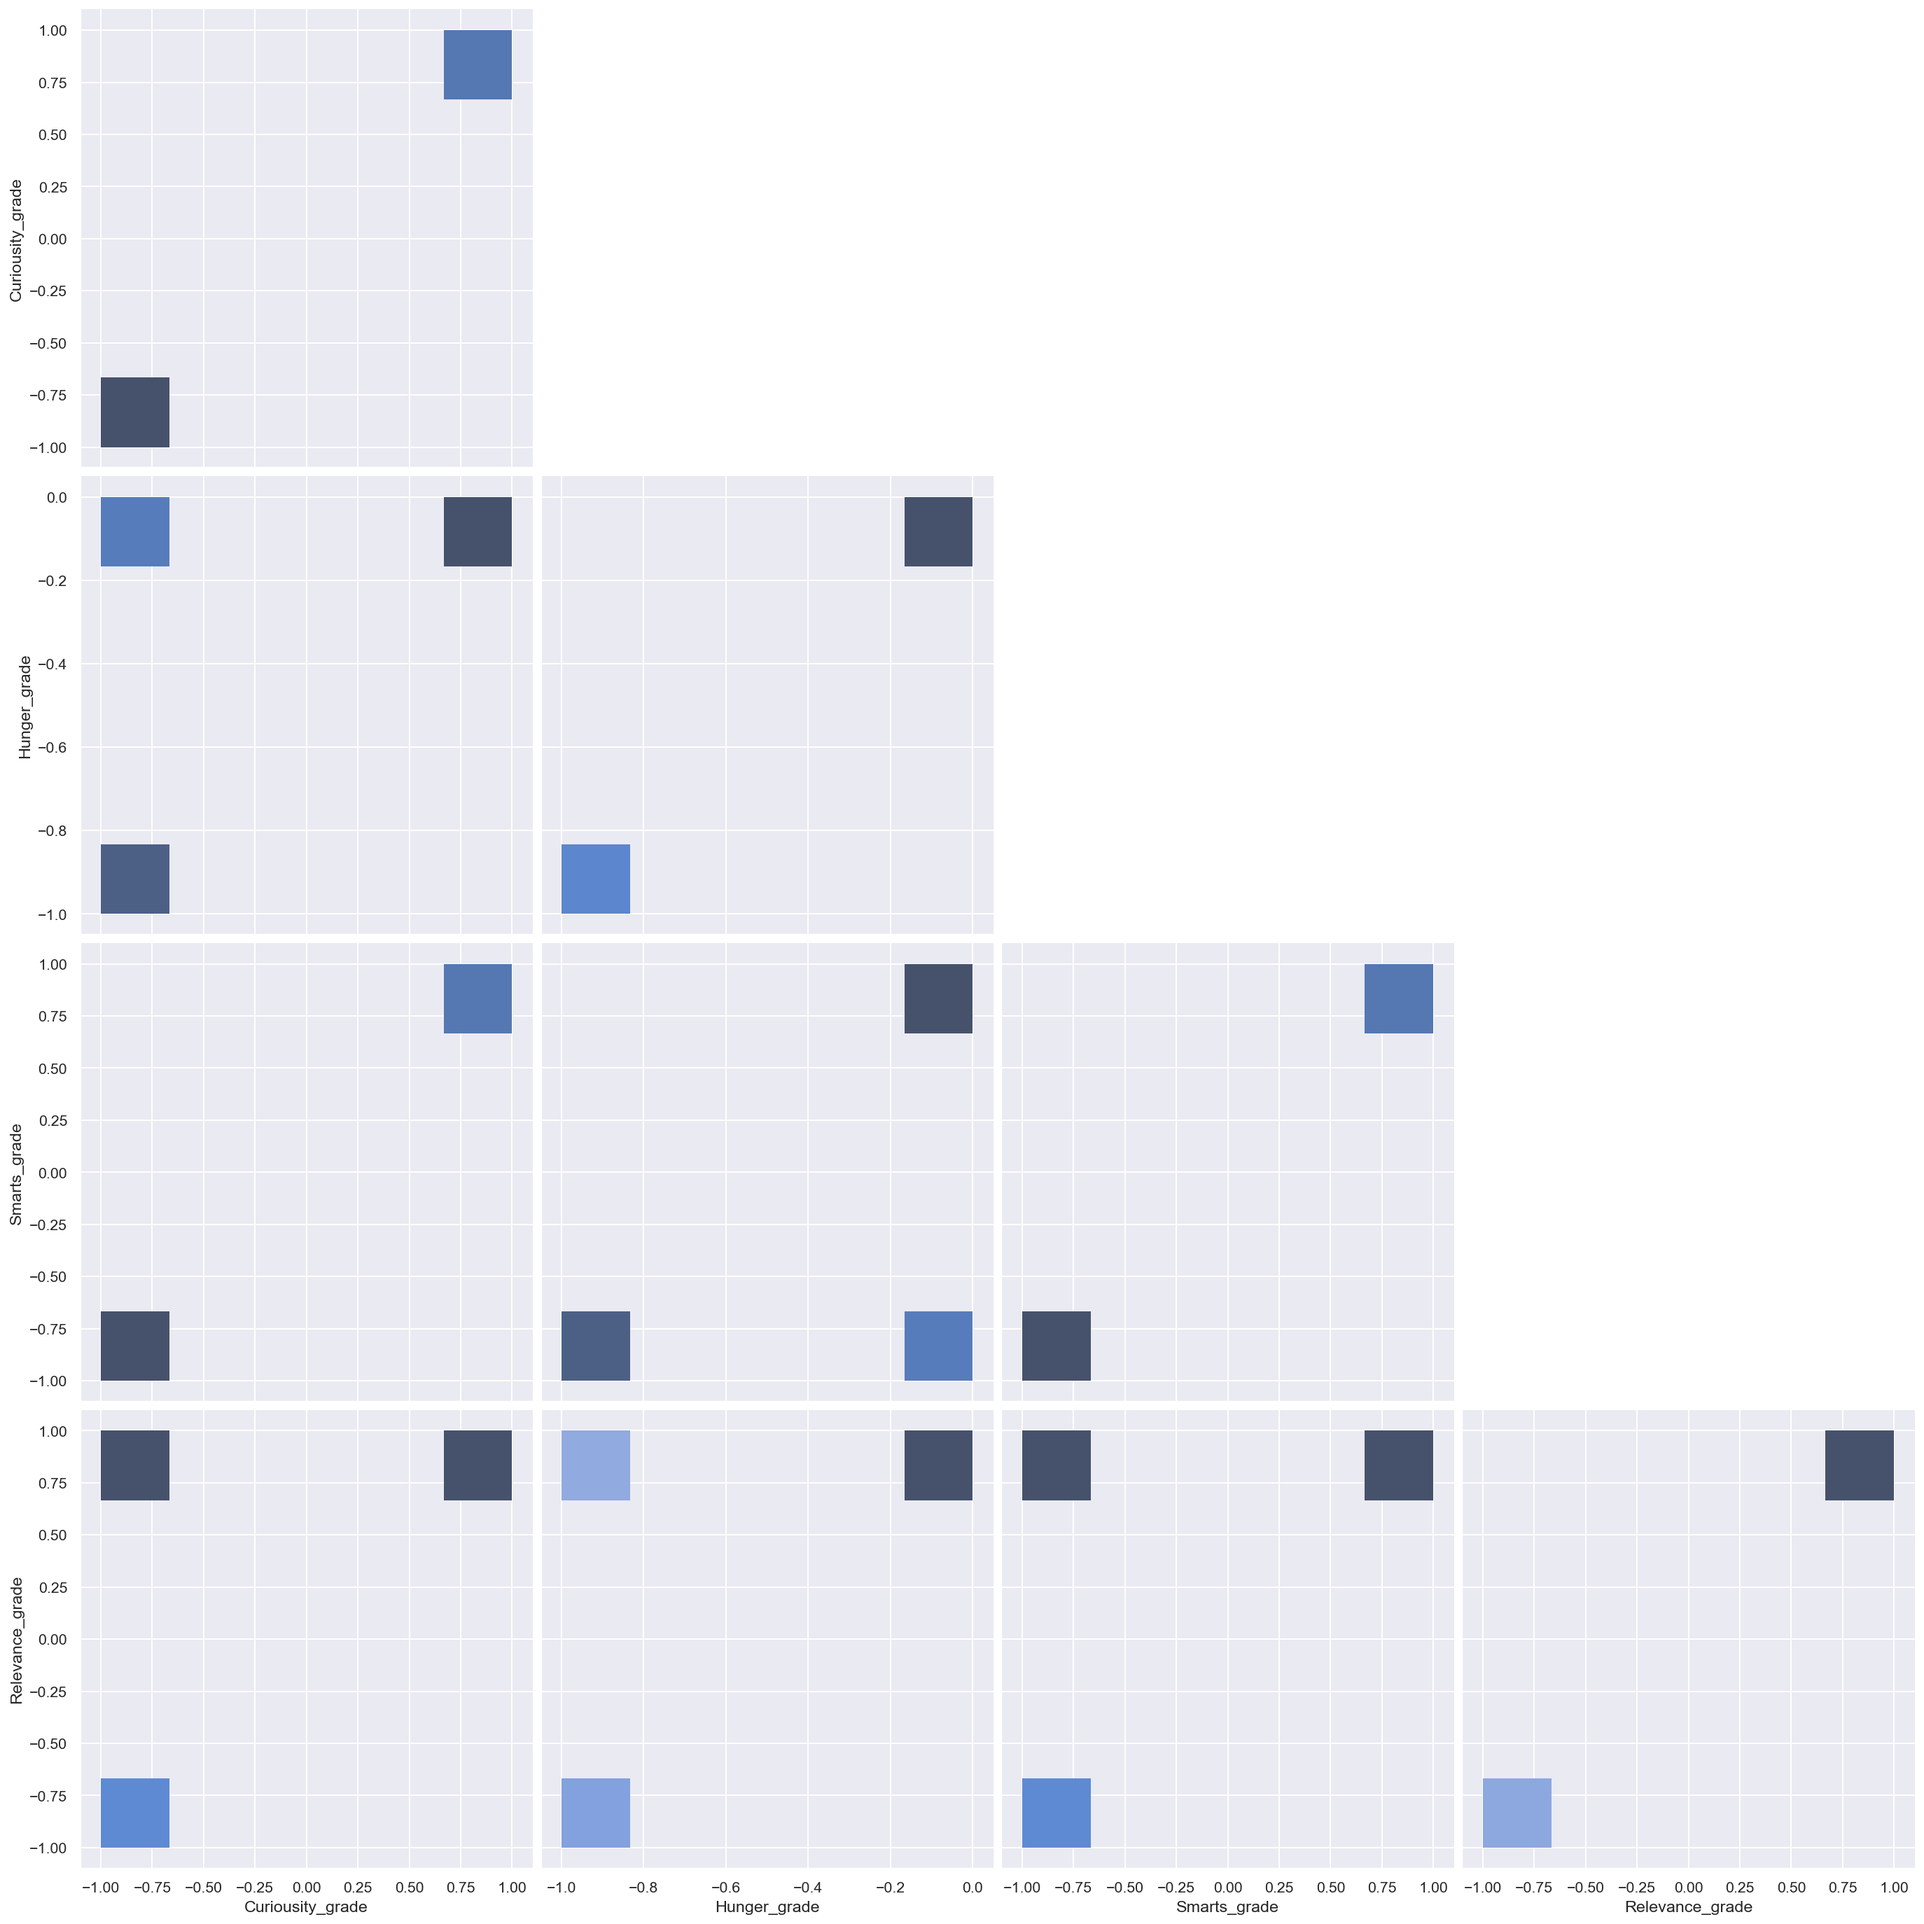
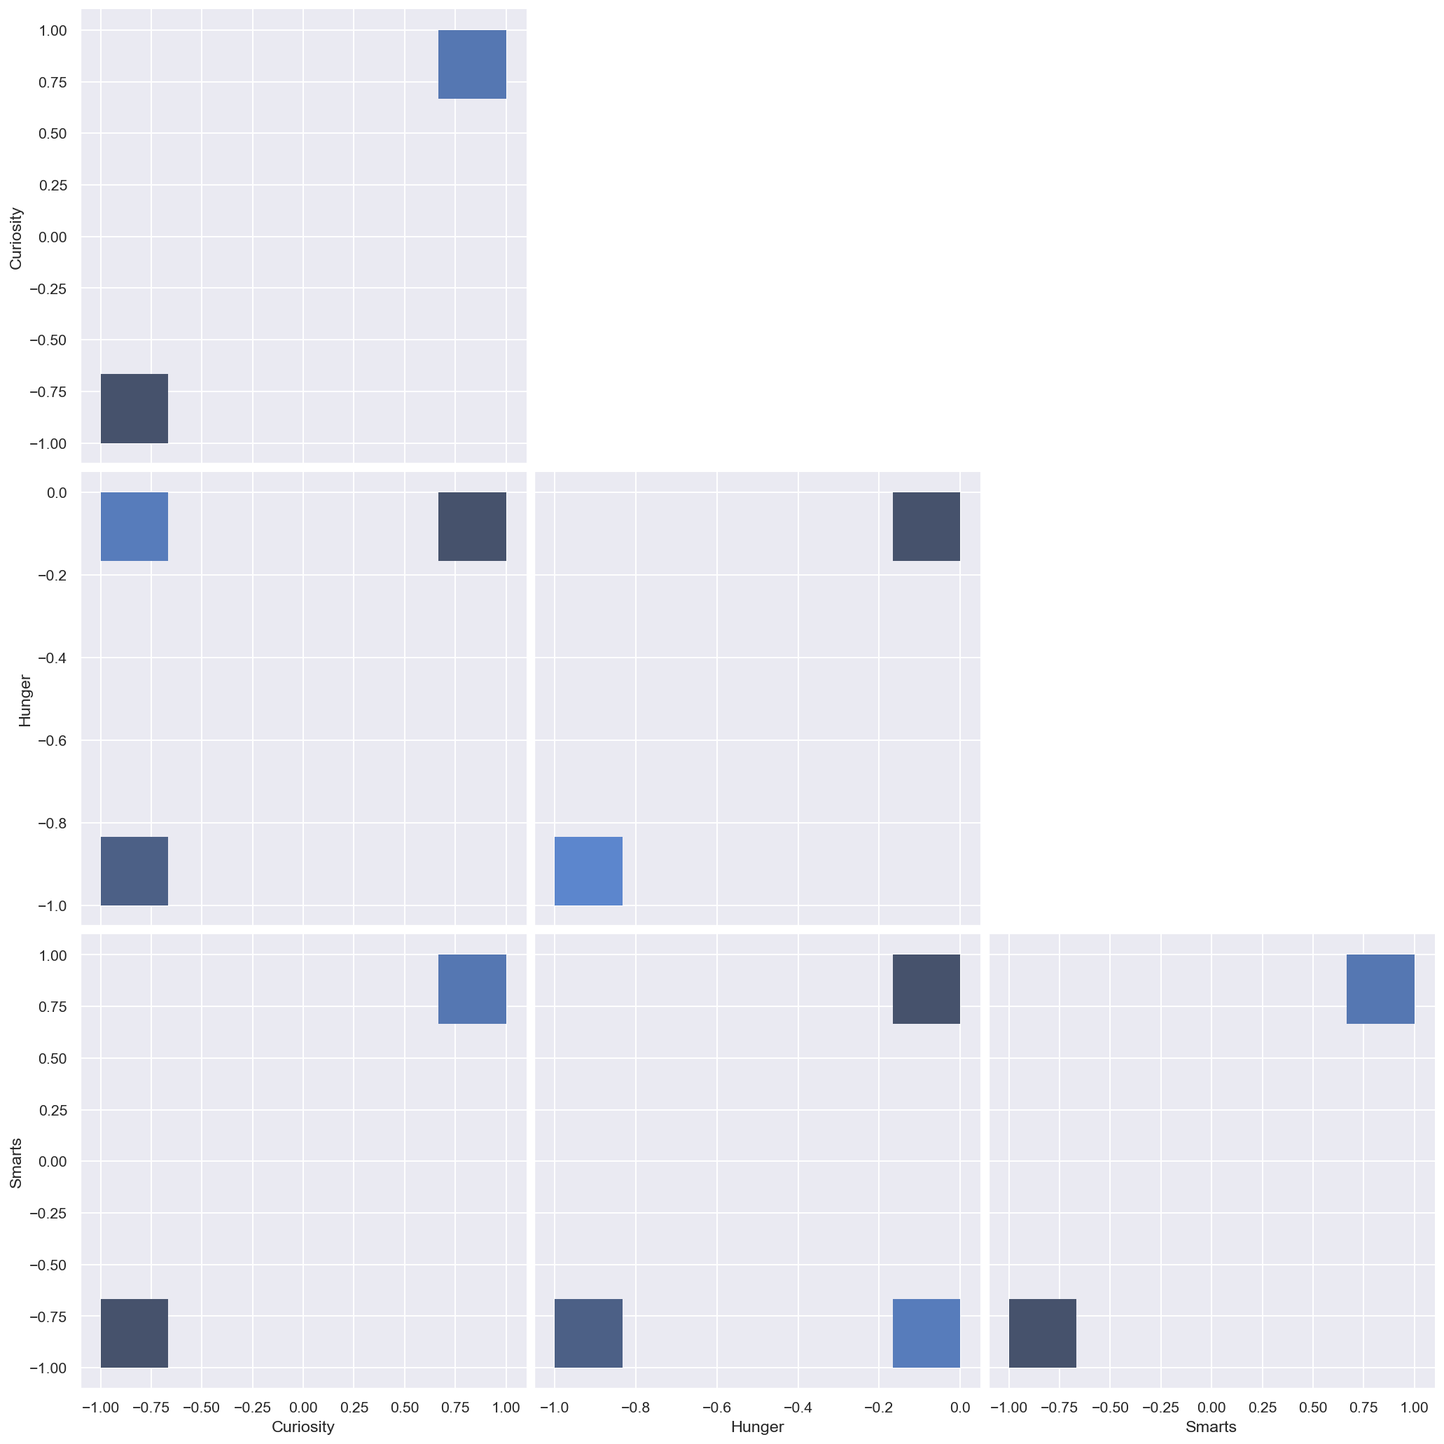
Script working reading in metrics.csv

diff --git a/open_ended_answers/open_ended_tools.py b/open_ended_answers/open_ended_tools.py
@@ -49,15 +49,16 @@ class OpenEndedAnswer:
         
         
         # Print the predictability of the model.
-        for i in range(len(self.metrics)):
-            preds = self.rfr[i].predict(self.X_test[i])
-            mse = mean_squared_error(self.y_test[i], preds)
-            mae = mean_absolute_error(self.y_test[i], preds)
-            str_out += f'Ada similarity embedding performance of {self.metrics[i]}: mse={mse:.2f}, mae={mae:.2f}\n'
+        # for i in range(len(self.metrics)):
+        #     preds = self.rfr[i].predict(self.X_test[i])
+        #     mse = mean_squared_error(self.y_test[i], preds)
+        #     mae = mean_absolute_error(self.y_test[i], preds)
+        #     str_out += f'Ada similarity embedding performance of {self.metrics[i]}: mse={mse:.2f}, mae={mae:.2f}\n'
         return str_out
 
     def create_answer_model(self, file, 
                             generate_embeddings=False, 
+                            embedding_model='text-embedding-ada-002',
                             random_state=None,
                             debug=False):
         # Creates an answer model by either generating embeddings, or using existing ones.
@@ -65,7 +66,6 @@ class OpenEndedAnswer:
 
         if generate_embeddings:
             # Generates embeddings of the answers by rereading the original data and rewriting to new with_embeddings
-            embedding_model = 'text-embedding-ada-002'
             self.df = self.df.assign(embedding = self.df['Answer'].apply(lambda x: get_embedding(x, engine=embedding_model)))
             # self.df = self.df.assign(embedding = self.df.Answer.apply(lambda x:
             #                                                  get_embedding(x, engine='text-embedding-ada-002')))
@@ -117,6 +117,24 @@ class OpenEndedAnswer:
                 print(
                     f"Dummy mean prediction performance for {metric}: mse={bmse:.2f}, mae={bmae:.2f}\n"
                 )
+    def create_metric_model(self, file,
+                            generate_embeddings=False, 
+                            embedding_model='text-embedding-ada-002'):
+        # TODO: This is currently just a copy of the create from the answer model
+        if generate_embeddings:
+            # Generates embeddings of each metric
+            self.df = self.df.assign(embedding = self.df['Answer'].apply(lambda x: get_embedding(x, engine=embedding_model)))
+            # self.df = self.df.assign(embedding = self.df.Answer.apply(lambda x:
+            #                                                  get_embedding(x, engine='text-embedding-ada-002')))
+            self.df.to_csv(file[:-4]+'_with_embeddings.csv')
+            print('Embeddings created.')
+        else:
+            # Create trained model with graded answers and embeddings
+            # Read in the data with embeddings. This only works if you have run generate embeddings at least once.
+            self.df = pd.read_csv(file[:-4]+'_with_embeddings.csv')
+            self.df['embedding'] = self.df.embedding.apply(
+                eval).apply(np.array)
+            print('Embeddings file read.')
     def test_model(self,input_answer):
         # Predict score of metrics for input_answer to the question
         # Create embedding from input answer

diff --git a/open_ended_answers/grade_open_ended.py b/open_ended_answers/grade_open_ended.py
@@ -12,18 +12,25 @@ import open_ended_tools
 
 # Define run parameters
 directory = './Data_Training/'
-file = 'open_ended_answers.csv'
+file_answers = 'open_ended_answers.csv'
+file_metrics = 'metrics.csv'
 generate_embeddings = True
+embedding_model='text-embedding-ada-002'
 n_clusters = 3  # Determined the number of clusters to use
 # Set to none to truly randomize. 42 used in code to reproduce samples to what is in openai docs.
 random_state = 40
 
 # Read Data
-df = pd.read_csv(directory+file, index_col=0)
+df = pd.read_csv(directory+file_answers, index_col=0)
 df = df[['Question_ID', 'Type', 'Question', 'Answer', 'Correct_answer',
-         'Curiousity_grade', 'Hunger_grade', 'Smarts_grade','Relevance_grade',
-         'Curiousity_optimum', 'Hunger_optimum', 'Smarts_optimum']]
-metrics = ['Curiousity_grade', 'Hunger_grade', 'Smarts_grade','Relevance_grade']
+         'Curiosity', 'Hunger', 'Smarts','Relevance',
+         'Curiosity_optimum', 'Hunger_optimum', 'Smarts_optimum','Relevance_optimum']]
+
+# metrics = ['Curiousity', 'Hunger', 'Smarts']
+df_metrics = pd.read_csv(directory+file_metrics, index_col=0)
+df_metrics = df_metrics[['Metric','Category_terms']]
+metrics = df_metrics['Metric']
+
 
 #%% Create open_ended_answer object and model
 question = []
@@ -33,22 +40,23 @@ for i in range(len(df['Question_ID'].unique())):
     question.append(df['Question'][df.index[df['Question_ID'] == q_ID].tolist()[0]])
     ans.append(open_ended_tools.OpenEndedAnswer(df[df['Question_ID'] == q_ID], metrics))
 
-    ans[i].create_answer_model(directory+file[:-4]+f'_{q_ID}.csv', 
+    ans[i].create_answer_model(directory+file_answers[:-4]+f'_{q_ID}.csv', 
                                 random_state=random_state, 
-                                generate_embeddings=generate_embeddings)
+                                generate_embeddings=generate_embeddings,
+                                embedding_model=embedding_model)
     print(ans[i])
     
 #%%Plot and analyze
 for i in range(len(df['Question_ID'].unique())):    
     q_ID = df['Question_ID'].unique()[i]
-    ans[i].plot_pairs(fig_path=directory+file[:-4]+f'_pp_{q_ID}.png')
+    ans[i].plot_pairs(fig_path=directory+file_answers[:-4]+f'_pp_{q_ID}.png')
     ans[i].plot_graded_clusters(random_state=random_state,
-                                fig_path=directory+file[:-4]+f'_graded_{q_ID}.png')
+                                fig_path=directory+file_answers[:-4]+f'd_{q_ID}.png')
     ans[i].make_named_clusters(n_clusters=n_clusters, 
                                random_state=random_state, 
                                ans_per_cluster=1,
-                               cluster_description_file=directory+file[:-4]+f'_{q_ID}_cd.csv')
-    ans[i].plot_named_clusters(random_state=random_state, fig_path=directory+file[:-4]+f'_{q_ID}.png')
+                               cluster_description_file=directory+file_answers[:-4]+f'_{q_ID}_cd.csv')
+    ans[i].plot_named_clusters(random_state=random_state, fig_path=directory+file_answers[:-4]+f'_{q_ID}.png')
 
 #%% Test the model with a sample answer not in the dataset which is correct.
 
